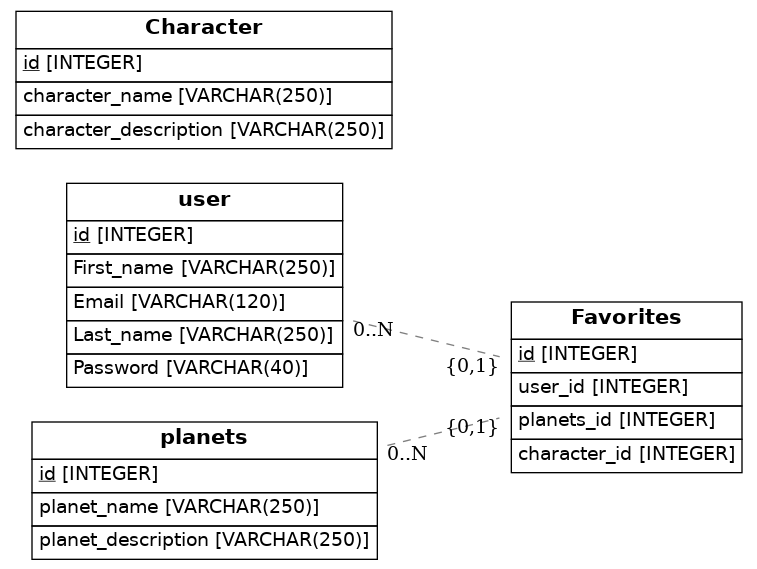
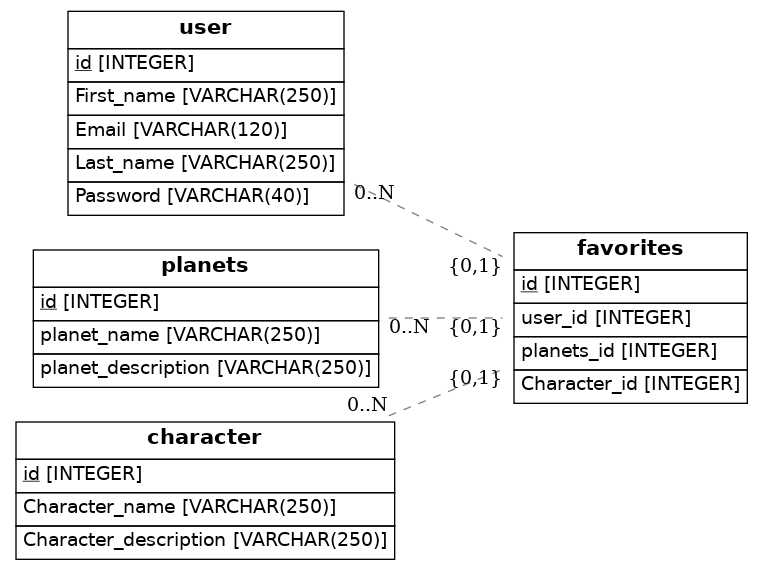
finish

diff --git a/src/models.py b/src/models.py
@@ -28,24 +28,24 @@ class Planets(Base):
     planet_description = Column(String(250), nullable=False)
    
 class Character(Base):
-    __tablename__ = 'Character'
+    __tablename__ = 'character'
     # Here we define columns for the table person
     # Notice that each column is also a normal Python instance attribute.
     id = Column(Integer, primary_key=True)
-    character_name = Column(String(250), nullable=False)
-    character_description = Column(String(250), nullable=False)
+    Character_name = Column(String(250), nullable=False)
+    Character_description = Column(String(250), nullable=False)
 
 class Favorites(Base):
-    __tablename__ = 'Favorites'
+    __tablename__ = 'favorites'
     # Here we define columns for the table address.
     # Notice that each column is also a normal Python instance attribute.
     id = Column(Integer, primary_key=True)
     user_id = Column(Integer, ForeignKey('user.id'))
-    user = relationship(User)
+    user = relationship("User")
     planets_id = Column(Integer, ForeignKey('planets.id'))
-    Planets = relationship(Planets)
-    character_id = Column(Integer, ForeignKey('character.id'))
-    character = relationship(Character)
+    Planets = relationship("Planets")
+    Character_id = Column(Integer, ForeignKey('character.id'))
+    Character = relationship("Character")
     
 
     def to_dict(self):
